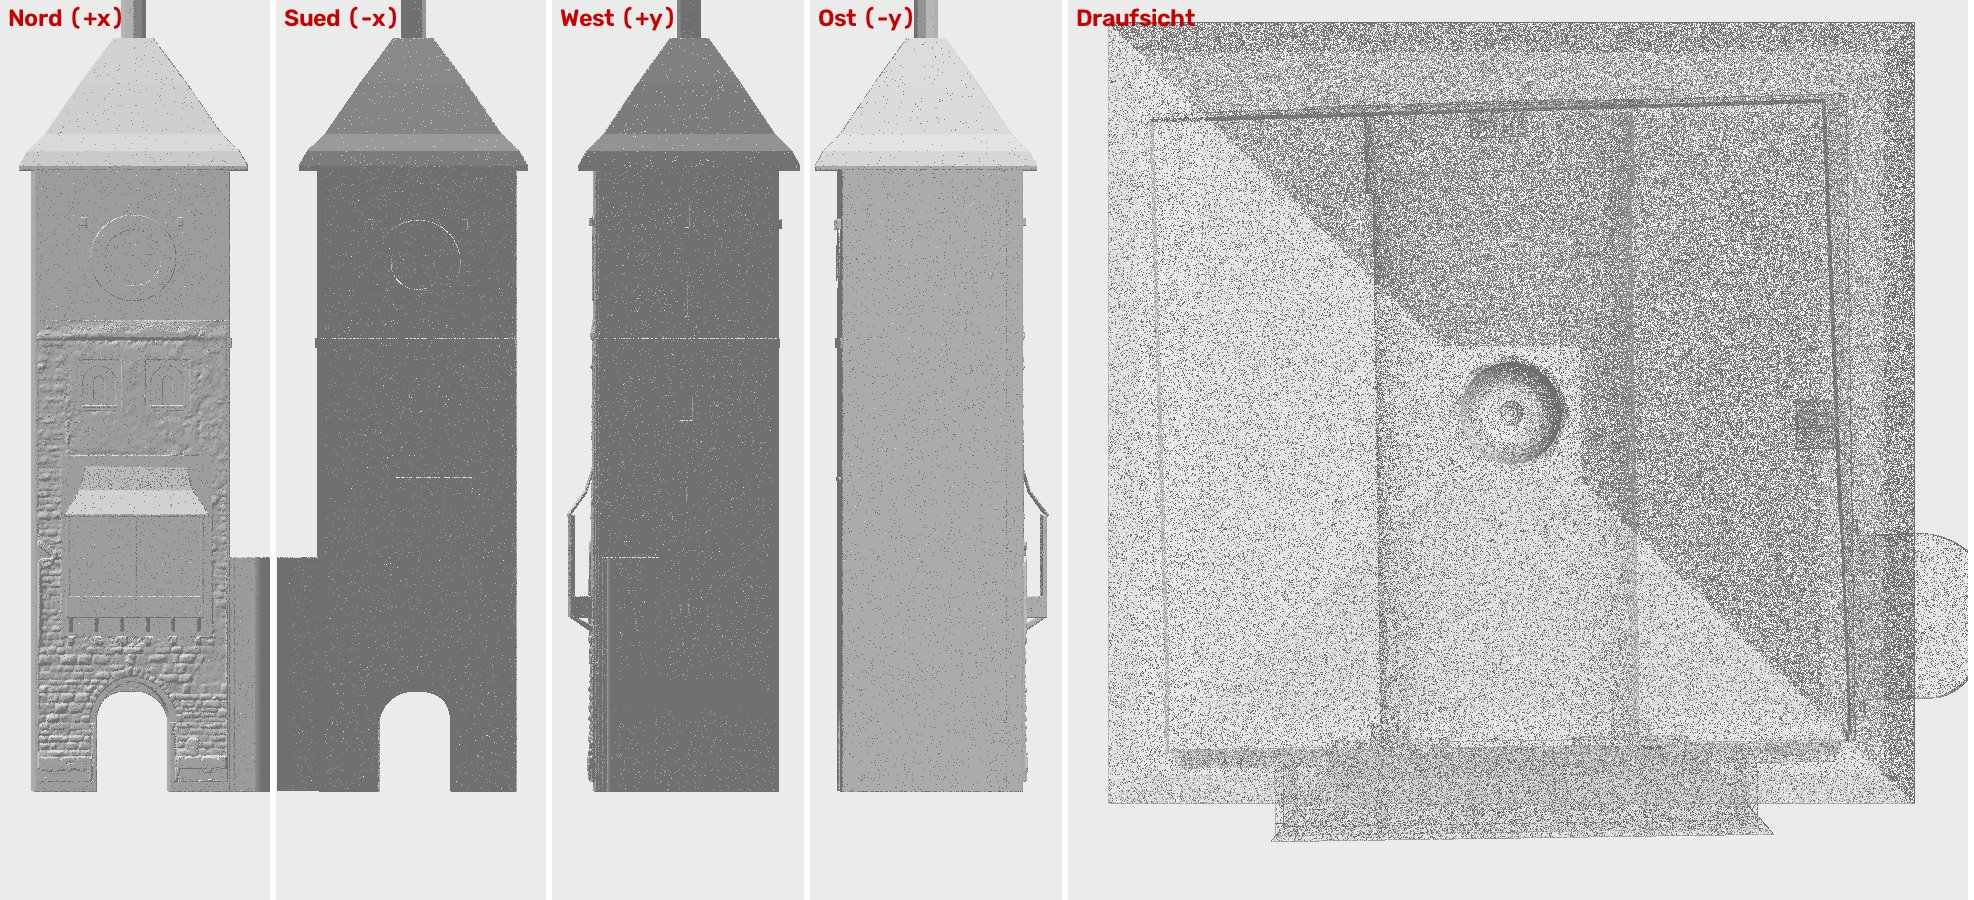
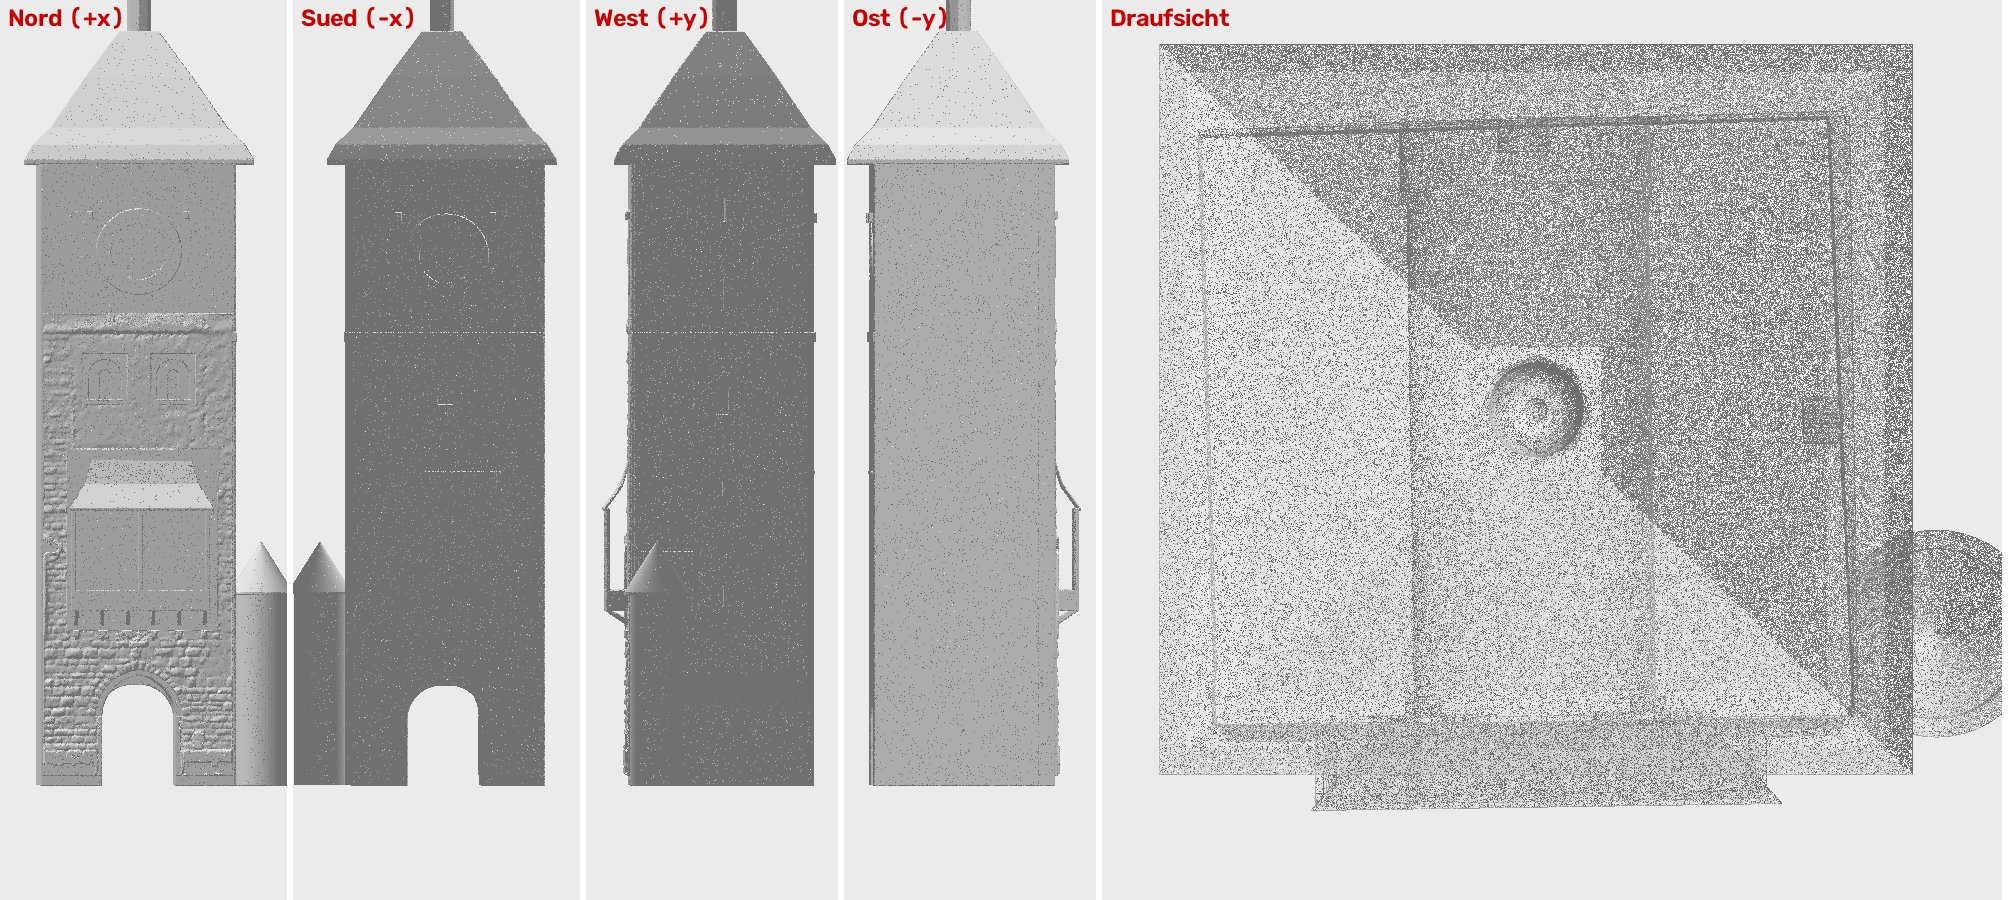
schwab_v3: neue dichte Wolke (sfm_neu) angesehen; Treppenturm als Zylinder mit Kegeldach aus Kreisausgleich, Abnahme gruen
Claude-Session: https://claude.ai/code/session_01BMC5F7JqzthTsrTAV2gKLz

diff --git a/modelle/schwab_v3_gen.py b/modelle/schwab_v3_gen.py
@@ -168,6 +168,13 @@ if obj.get("lod2", {}).get("id"):                    # Standard: LoD2-Grundriss 
     koerper = koerper + WW.kasten(0.0, WW.laenge, 26.0, 26.53, -0.4, 0.10)                                      # Gesims West: Hoehe wie Sued (im Foto 114039 bei z ~26,5), Ausladung ANNAHME
     beleg("wand", "Westfassade: grosses Fenster, 4 Schlitzfenster, Gesims", "foto_mass.py auf der Westwandebene, Foto 114039 (M-114039-001..-006)", fenster_breite=0.81, fenster_hoehe=1.75, fensterachse_u=5.40,
           hinweis="ANNAHME: Tiefen, Schlitzbreiten 0,12-0,25 m aus einem steilen Foto, Gesimshoehe von der Suedseite; Wandlage West nur aus Wolke/LoD2; Treppenturm (LoD2-Nebenteil) unveraendert; Eckquader/Bruchstein fehlen")
+    # ---- TREPPENTURM (15.11.2026): LoD2-Nebenteil (D-foermig, 2,8 x 2,5 m, flach) ersetzt durch Zylinder aus dem Kreisausgleich der neuen dichten Wolke ----
+    TT_C, TT_R, TT_ZW, TT_RT, TT_ZS = (1.845, 22.525), 1.52, 11.3, 1.85, 14.2     # Mitte, Radius, Wandoberkante (Wolke), Traufradius (Wolke p90), Kegelspitze (ANNAHME nach Foto 114039: Kegel ~3 m hoch)
+    koerper = koerper - M.cube((5.4, 4.0, 16.0)).translate((-1.6, 21.03, -0.5))                                 # alten Anbau westlich der Westwand entfernen
+    turm = M.cylinder(TT_ZW, TT_R, TT_R, 48) + M.cylinder(0.12, TT_RT, TT_RT, 48).translate((0, 0, TT_ZW - 0.12)) + M.cylinder(TT_ZS - TT_ZW, TT_RT, 0.02, 48).translate((0, 0, TT_ZW))
+    koerper = koerper + turm.translate((TT_C[0], TT_C[1], 0.0))
+    beleg("wand", "Treppenturm (Zylinder mit Kegeldach)", "Kreisausgleich der neuen dichten Wolke (20 580 Punkte, Rest 1,8 cm); Gegenprobe foto_diff Foto 114039", radius=TT_R, wand_oberkante=TT_ZW, spitze=TT_ZS,
+          hinweis="Lage/Radius/Wandhoehe aus der Wolke (Lage-Veto), Kegelhoehe und Traufe ANNAHME nach Foto; Schlitzfenster und Knauf fehlen; am Foto noch zu messen")
     cu, cv = haupt.mean(0); model = koerper.scale((K, K, K))   # 15.11.2026: NICHT zentrieren - STL bleibt im Rahmen (objekt.json rahmen); die Fotowerkzeuge (zentrierung 'achse') erwarten STL = Rahmen, sonst liegt das Modell um (cu, cv) neben Kameras/Wolke
 else:
     H = 10.0                               # Gesamthoehe (m) - Quelle in masstabelle.json

diff --git a/modelle/schwab_v3/MASSNACHWEIS.md b/modelle/schwab_v3/MASSNACHWEIS.md
@@ -61,15 +61,18 @@ Massstab: *dokument/lod2/laser* = absolut; *foto_intern* = bekanntes Mass im sel
 | West (fen_w_schlitz_ueber): |y| der ersten Flaeche bei u 5.42 z 30.45 (m) | 20.80 | 20.58..21.05 | foto_kalibriert | SfM-Neuaufbau, Rahmen = Lasermassstab 0,933 | OK | foto_mass.py --kamera/--ebene auf der Westwandebene (Ecken aus den neuen SfM-Punkten), Foto 114039 (16 Grad zur Wandnormalen, 17 m), Kameras aus dem SfM-Neuaufbau; ueber dem Schlitz Wand; Wandlage selbst nur aus Wolke/LoD2 (+-0,25 m), geprueft wird offen/zu |
 | West (fen_w_klein17_innen): |y| der ersten Flaeche bei u 5.40 z 17.40 (m) | 20.13 | 19.83..20.53 | foto_kalibriert | SfM-Neuaufbau, Rahmen = Lasermassstab 0,933 | OK | foto_mass.py --kamera/--ebene auf der Westwandebene (Ecken aus den neuen SfM-Punkten), Foto 114039 (16 Grad zur Wandnormalen, 17 m), Kameras aus dem SfM-Neuaufbau; kleines Fenster z 16,93-17,86; Wandlage selbst nur aus Wolke/LoD2 (+-0,25 m), geprueft wird offen/zu |
 | West (fen_w_klein11_innen): |y| der ersten Flaeche bei u 5.33 z 10.95 (m) | 20.12 | 19.82..20.52 | foto_kalibriert | SfM-Neuaufbau, Rahmen = Lasermassstab 0,933 | OK | foto_mass.py --kamera/--ebene auf der Westwandebene (Ecken aus den neuen SfM-Punkten), Foto 114039 (16 Grad zur Wandnormalen, 17 m), Kameras aus dem SfM-Neuaufbau; kleines Fenster z 10,46-11,44; Wandlage selbst nur aus Wolke/LoD2 (+-0,25 m), geprueft wird offen/zu |
+| Treppenturm (turm_r_west) (m) | 1.52 | 1.44..1.6 | sfm_bodenanker | SfM-Neuaufbau, Rahmen = Lasermassstab 0,933 | OK | Kreisausgleich der neuen dichten Wolke (sfm_neu, 20 580 Punkte z 2,5-12 m, Bogen ~250 Grad, Rest 1,8 cm): Mitte (1,845 / 22,525), Radius 1,52 m; Wandpunkte bis z ~11,3 m; Radius nach West bei z 6 |
+| Treppenturm (turm_r_nordwest) (m) | 1.52 | 1.44..1.6 | sfm_bodenanker | SfM-Neuaufbau, Rahmen = Lasermassstab 0,933 | OK | Kreisausgleich der neuen dichten Wolke (sfm_neu, 20 580 Punkte z 2,5-12 m, Bogen ~250 Grad, Rest 1,8 cm): Mitte (1,845 / 22,525), Radius 1,52 m; Wandpunkte bis z ~11,3 m; Radius nach Nordwest bei z 6 |
+| Treppenturm (turm_r_oben) (m) | 1.52 | 1.44..1.6 | sfm_bodenanker | SfM-Neuaufbau, Rahmen = Lasermassstab 0,933 | OK | Kreisausgleich der neuen dichten Wolke (sfm_neu, 20 580 Punkte z 2,5-12 m, Bogen ~250 Grad, Rest 1,8 cm): Mitte (1,845 / 22,525), Radius 1,52 m; Wandpunkte bis z ~11,3 m; Radius bei z 11 (Wand reicht bis ~11,3 m) |
 
 ## Belegt durch
 
 - **modell**: 2 von 2 Pruefungen gruen (Druckbarkeit, keine Realitaetsaussage)
-- **sfm_bodenanker**: 6 von 6 Pruefungen gruen (COLMAP-Netz je Fassadenseite (tools/sfm_ausrichten.py), 7 Parameter aus LoD2-Eckkanten in >= 4 Fotos, Hoehenlage aus ANNAHME Strassenkamera 1,7 +- 0,6 m; Massstab +-2-3 %, Hoehe +-0,7 m systematisch; sieht keine Fassadenzaehlung (Punkte, keine Semantik). Register AH)
+- **sfm_bodenanker**: 9 von 9 Pruefungen gruen (COLMAP-Netz je Fassadenseite (tools/sfm_ausrichten.py), 7 Parameter aus LoD2-Eckkanten in >= 4 Fotos, Hoehenlage aus ANNAHME Strassenkamera 1,7 +- 0,6 m; Massstab +-2-3 %, Hoehe +-0,7 m systematisch; sieht keine Fassadenzaehlung (Punkte, keine Semantik). Register AH)
 - **laser_dom1**: 1 von 1 Pruefungen gruen (1-m-Raster, interpoliert, nur von oben; Strukturen < ~3 m verschmiert, Nadeln unsichtbar. BLIND auch fuer Grundriss mit Vorspruengen < ~1 m (Gesims, Erker): die Flaeche ueber Hoehe faellt dann 15-20 % zu klein aus (Martinstor 2026-11-01, Register O/P))
 - **foto_kalibriert**: 47 von 47 Pruefungen gruen (Kamera aus amtlichen Ankern (LoD2/DOM1), Pixel->Meter auf bekannter Ebene; +-0,1-0,3 m je Mass, +-1 m systematisch in der Hoehe (Ankerhoehen))
 
-## Elemente des Generators: 17 belegt, 0 Annahmen
+## Elemente des Generators: 18 belegt, 0 Annahmen
 
 - wand: Grundriss Teil 0 - LoD2 DEBW_001000hPLcp GroundSurface 0
 - wand: Teil 1 (ohne Dachmessung) - LoD2 DEBW_001000hPLcp Wandoberkante (31 eigene Waende)
@@ -88,6 +91,7 @@ Massstab: *dokument/lod2/laser* = absolut; *foto_intern* = bekanntes Mass im sel
 - wand: Suedwand (Ebene) - SfM-Neuaufbau mit Eckpaaren (sfm_neu), Wandpunkte z 8-33 m; Gegenprobe Uhr/Traufe im entzerrten Suedfoto 127
 - wand: Suedfassade: Torbogen, Fenster, Uhr, Gesims, Verdachung - foto_mass.py auf der Suedwandebene, Fotos commons 127 und 217 (M-commons127-002..-010, M-commons217-001..-003)
 - wand: Westfassade: grosses Fenster, 4 Schlitzfenster, Gesims - foto_mass.py auf der Westwandebene, Foto 114039 (M-114039-001..-006)
+- wand: Treppenturm (Zylinder mit Kegeldach) - Kreisausgleich der neuen dichten Wolke (20 580 Punkte, Rest 1,8 cm); Gegenprobe foto_diff Foto 114039
 
 ## Beobachtungen ohne Pruefung
 

diff --git a/modelle/STAND_2026-11-14.md b/modelle/STAND_2026-11-14.md
@@ -217,3 +217,4 @@
 - **02:30 Job `rcpark-v3_dicht_neu` gestartet** (rc-park_daten/schwab_v3/sfm_neu/dicht.log, Ende = DICHT_NEU_FERTIG): dichte Wolke aus sfm_neu/sparse_dicht (341 Bilder wie bisher, Stufe schnell) -> sfm_neu/dicht/fused.ply, danach wolke_saeubern -> sfm_neu/punkte_modell_sauber_neu.npy. Mein erster Start war ein Fehlstart (rc 1, steht in job_fehler.log): die Bildauswahl war noch nicht angelegt (pycolmap hat deregister_frame statt deregister_image) und ich hatte den Job im selben Befehl gestartet - gegen die eigene Regel "vor Langlauf pruefen". DANACH: Schnittbilder Wolke/Modell aller Seiten, OpenMVS-Netz aus sfm_neu/dicht, Relief Sued/West (relief_einsatz.py mit Wand aus bauteile), 3D-Seite wieder mit dichter Wolke.
 - **03:00 WESTFASSADE: Fenster gebaut** (grosses Fenster 0,80 x 1,75 m, Bank z 21,70; Schlitzfenster z 27,82-30,19, z 33-34,4 (ungefaehr), kleine Fenster z 16,93-17,86 und 10,46-11,44; Achse u 5,40 ab Suedwestecke; Gesims z 26,0-26,53; M-114039-001..-006; 7 Pruefungen offen/zu; Abnahme gruen). foto_diff 114039: 34 % / 59 % - Traufe, Gesims, Fenster gruen, aber der TREPPENTURM (LoD2-Nebenteil) passt nicht: Modellkanten rot, im Foto breiter, hoeher (~15 m) und mit Kegeldach. Bild audit/west_modell_neben_foto.jpg. 3D-Seite Version 20. NAECHSTES: Treppenturm als Zylinder mit Kegeldach aus den neuen SfM-Punkten (Kreisausgleich) + Fotomassen; dichte Wolke laeuft (v3_dicht_neu).
 - **03:20 Nutzer 16:35: "Jetzt ist die Schrottwolke wieder da" - MEIN FEHLER, behoben.** In V17-V20 hatte ich die rohen duennen SfM-Punkte des neuen Modells gezeigt, ungesehen. Darin: die Insel-Kette des Drohnenclips NW-Mt7ryZ8c (im neuen SfM 79 von 80 Bildern ohne Fremdstuetze; Miniaturstadt als Band bei z ~30 m) und Streupunkte. kette_insel_pruefen auf sfm_neu/sparse/0: 98 von 565 Bildern ohne Fremdstuetze, 2 Insel-Ketten (audit/kette_insel.json neu). Anzeige jetzt: nur Punkte mit >= 3 Fotos OHNE Insel-Bilder, Fehler < 2 px, 35 m, Nachbarabstand < 0,6 m -> 90 462 Punkte (sfm_neu/SfM_neu_duenn_gesaeubert.npy); Kontrollbild audit/wolke_duenn_gesaeubert.jpg VORHER angesehen (kein Band mehr, Dach bleibt). 3D-Seite Version 21. Der Dichte-Job nutzt die alte Bildliste ohne die Insel-Bilder - trotzdem nach Ende zuerst das Kontrollbild ansehen. REGEL (steht schon in der Uebergabe 12:45, heute zweimal verletzt): nie eine Wolke veroeffentlichen, deren Kontrollbild ich nicht angesehen habe.
+- **04:10 NEUE DICHTE WOLKE FERTIG UND ANGESEHEN** (v3_dicht_neu: 1 724 s, 2,53 Mio Punkte fusioniert; gesaeubert 2,35 Mio -> sfm_neu/punkte_modell_sauber_neu.npy + punkte_farben_sauber_neu.npy). Kontrollbild audit/wolke_sauber_neu.png: sauber, kein schwebendes Band. Schnitte audit/schnitte_neue_wolke_modell.jpg (z 3-6, 15-24, 27-33): Modell liegt an Nord-, West- und Suedwand auf der Wolke. **TREPPENTURM neu:** Kreisausgleich der dichten Wolke (20 580 Punkte, Bogen ~250 Grad, Rest 1,8 cm): Mitte (1,845 / 22,525), Radius 1,52 m, Wand bis z ~11,3 m, Traufradius ~1,85 m; im Generator Zylinder + Traufring + Kegel bis 14,2 m (Kegelhoehe ANNAHME), alter LoD2-Anbau entfernt; 3 Pruefungen, Abnahme gruen; foto_diff 114039: 13 % / 61 % (vorher 34 % / 59 %), Turmkante und Traufbogen gruen. 3D-Seite Version 22 zeigt die neue dichte Wolke. NAECHSTES: OpenMVS-Netz aus sfm_neu/dicht (braucht ~10 GB fuer Tiefenkarten: alte pipe/dicht/stereo vorher loeschen), Relief Sued/West, Nordrelief auf das neue Netz umstellen; Kegel und Schlitzfenster des Treppenturms am Foto messen; Ostseite (Anbau) ansehen.
